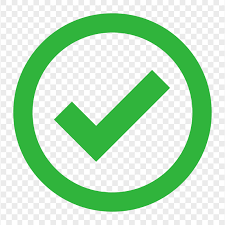
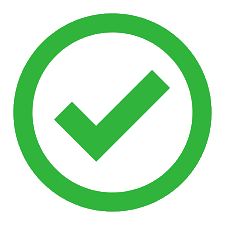
Polish submission success state

diff --git a/src/index.css b/src/index.css
@@ -483,18 +483,18 @@ textarea {
   }
 
   .contact-success {
-    @apply flex min-h-[24rem] w-full flex-col items-center justify-center gap-6 py-8 text-center sm:min-h-[26rem];
+    @apply flex min-h-[24rem] w-full flex-col items-center justify-center gap-7 py-8 text-center sm:min-h-[26rem];
   }
 
   .contact-success__badge {
-    @apply grid h-24 w-24 place-items-center rounded-full border border-black/8 bg-sand/55;
+    @apply grid h-32 w-32 place-items-center rounded-full border border-black/8 bg-sand/55;
     box-shadow:
       inset 0 1px 0 rgba(255, 255, 255, 0.82),
       0 18px 34px rgba(25, 25, 25, 0.08);
   }
 
   .contact-success__icon {
-    @apply h-10 w-10 object-contain;
+    @apply h-16 w-16 object-contain;
   }
 
   .contact-success__content {

diff --git a/src/components/LeadForm.jsx b/src/components/LeadForm.jsx
@@ -20,7 +20,7 @@ const emptyValues = {
   companyWebsite: '',
 }
 
-const SUCCESS_SCREEN_MS = 2400
+const SUCCESS_SCREEN_MS = 4200
 
 const formCopy = {
   es: {
